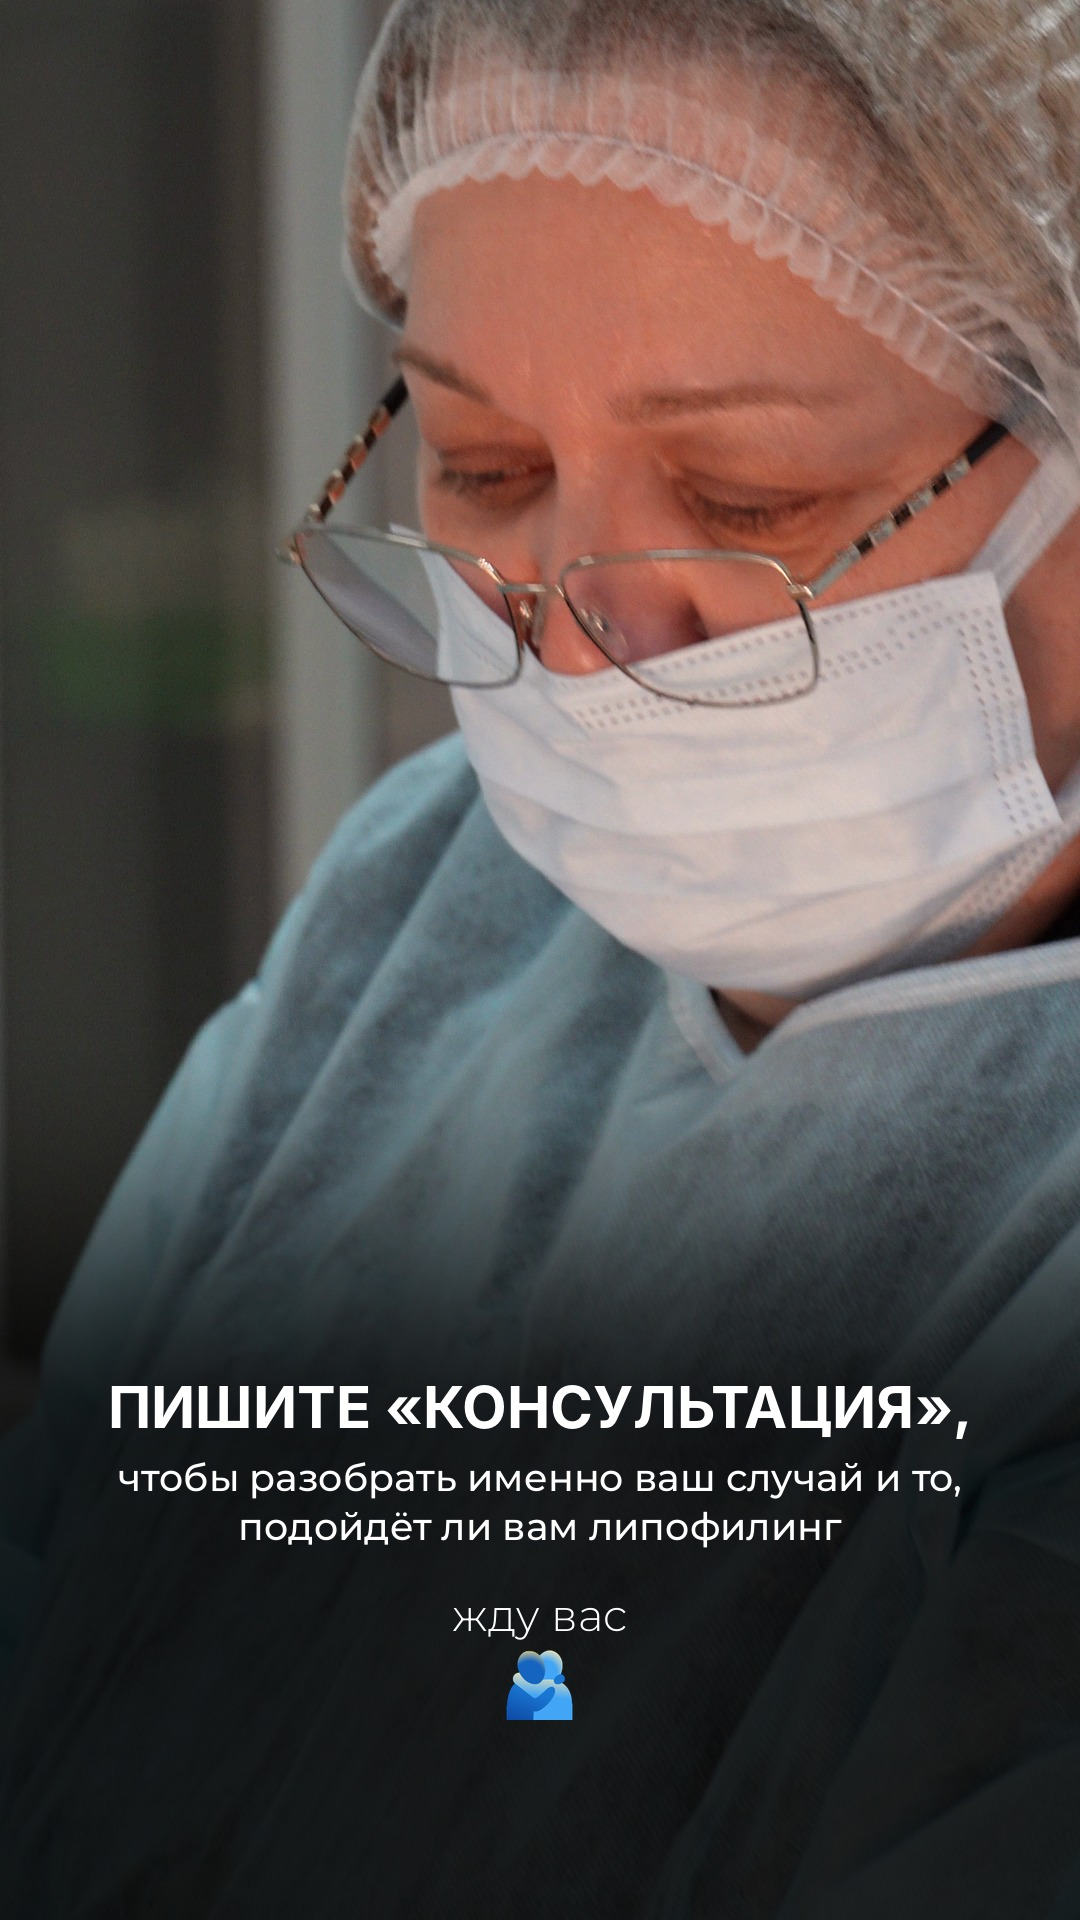
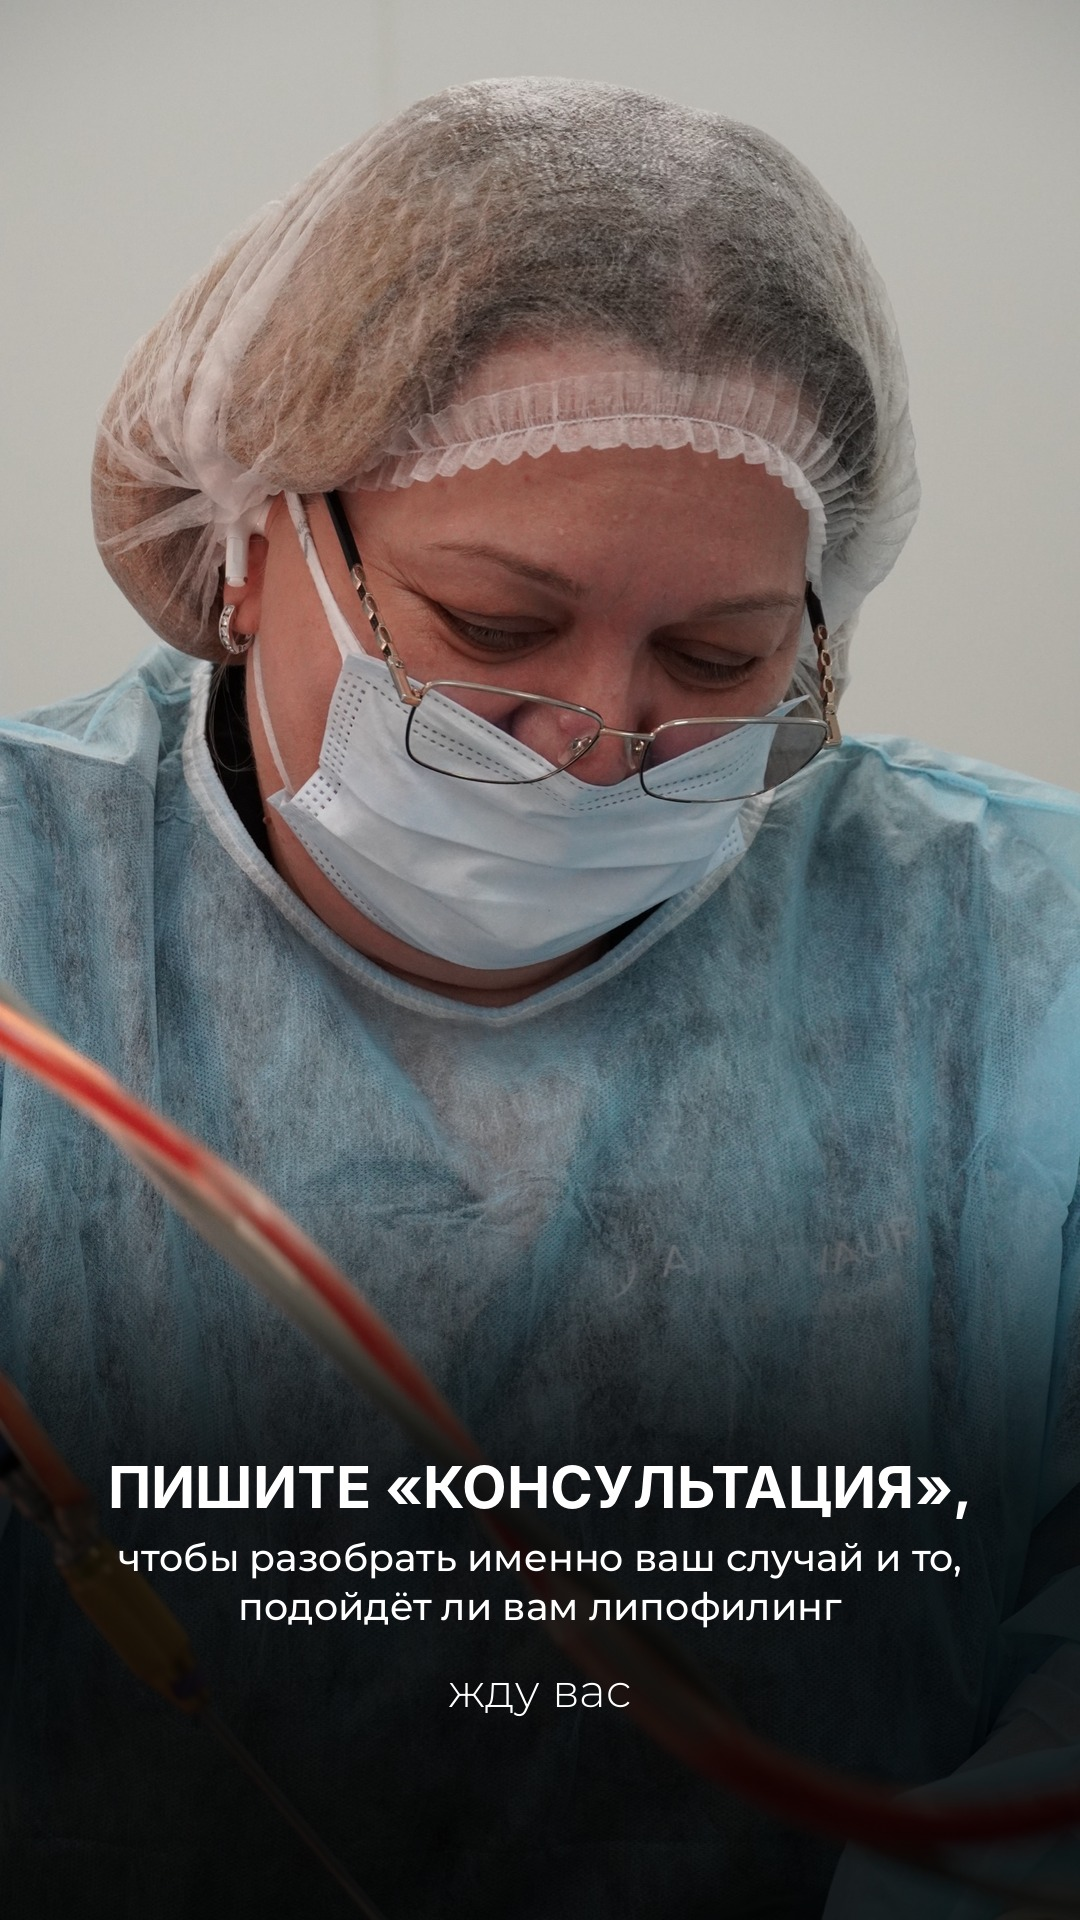
Lipofilling stories: no emoji, last story on the surgeon's OR photo
Claude-Session: https://claude.ai/code/session_01DoBoRz2HUe4yvMBz6dWv4L

diff --git a/tools/stories_lipofilling_fat.py b/tools/stories_lipofilling_fat.py
@@ -627,9 +627,7 @@ def emoji(ch, size):
 
 def s1():
     col = Column(0, align="left")
-    f = bold(62); tail = emoji("😍", 58)
-    im, pad = text_img(wrap("ПОСМОТРИТЕ, КАКОЙ ДРАГОЦЕННЫЙ ЖИР!", f, col.width - tail.width - 14), f, WHITE, 1.14, "left", col.width, tail=tail)
-    col._add(im, pad, 0, 18)
+    col.head("ПОСМОТРИТЕ, КАКОЙ ДРАГОЦЕННЫЙ ЖИР!", 0, size=62, gap=18)
     col.body("Не надо худеть, если хотите липофилинг", 0, size=40, wght=500, gap=0)
     col.to_bottom(1720)
     d = 29.0
@@ -660,22 +658,17 @@ def s3():
 
 
 def s4():
-    # cover video (3.8 s of 4K, slowed down to 7.7 s), no sound; CTA low on the gown, face free
-    p = subprocess.run(["ffmpeg", "-v", "error", "-i", os.path.join(SRC, "drive", "C0595.MP4"),
-                        "-vf", f"scale={W}:{H}:flags=lanczos,setpts=2.0*PTS,fps={FPS}", "-an", "-f", "rawvideo", "-pix_fmt", "rgb24", "-"],
-                       capture_output=True, check=True).stdout
-    frames = np.frombuffer(p, np.uint8).reshape(-1, H, W, 3)
+    # the surgeon in the OR (drive/surgeon_or_photo.jpg), photo story; CTA low on the gown, face free
+    img = ImageOps.fit(load_img("surgeon_or_photo.jpg"), (W, H), Image.LANCZOS, centering=(0.5, 0.0))
     col = Column(0, align="center")
     col.head("ПИШИТЕ «КОНСУЛЬТАЦИЯ»,", 0, size=58, gap=14)
-    col.body("чтобы разобрать именно ваш случай и то, подойдёт ли вам липофилинг", 0, size=38, wght=500, gap=36)
-    col.body("жду вас", 0, size=44, wght=300, gap=6)
-    em = emoji("🫂", 70); col.items.append(Sprite(em, (W - em.width) // 2, col.y, 0, dy=0)); col.y += em.height; col.bottom = col.y
+    col.body("чтобы разобрать именно ваш случай и то, подойдёт ли вам липофилинг", 0, size=38, wght=500, gap=30)
+    col.body("жду вас", 0, size=46, wght=300, gap=0)
     col.to_bottom(1720)
-    render(4, "konsultaciya", len(frames) / FPS, lambda i, t: frames[min(i, len(frames) - 1)], col.items,
-           shade=black_fade(col.items[0].y + 40, 380, 0.82))
+    render(4, "konsultaciya", 10.0, still_bg(img, z1=1.0), col.items, shade=black_fade(col.items[0].y + 40, 380, 0.82))
 
 
-PHOTO_ONLY = {2}
+PHOTO_ONLY = {2, 4}
 STORIES = {1: s1, 2: s2, 3: s3, 4: s4}
 for k, fn in STORIES.items():
     if not ONLY or k in ONLY:

diff --git a/stories_lipofilling_fat/README.md b/stories_lipofilling_fat/README.md
@@ -5,9 +5,11 @@
 
 | № | Файл | Что внутри | Звук |
 |---|------|-----------|------|
-| 1 | 01_dragocennyj_zhir.mp4 | хирург на липосакции (IMG_4752, 0–29 с), тело пациентки размыто; «ПОСМОТРИТЕ, КАКОЙ ДРАГОЦЕННЫЙ ЖИР! 😍 / Не надо худеть, если хотите липофилинг» | голос + субтитры по слову |
+| 1 | 01_dragocennyj_zhir.mp4 | хирург на липосакции (IMG_4752, 0–29 с), тело пациентки размыто; «ПОСМОТРИТЕ, КАКОЙ ДРАГОЦЕННЫЙ ЖИР! / Не надо худеть, если хотите липофилинг» | голос + субтитры по слову |
 | 2 | 02_yagodicy.jpg | «ИЛИ ЯГОДИЦ» + 4 коллажа ДО/ПОСЛЕ сеткой 2×2 | — (фото) |
 | 3 | 03_repost_rolika.mp4 | ролик IMG_4755 на весь экран, как репост | звук ролика |
-| 4 | 04_konsultaciya.mp4 | видео хирурга C0595 (замедлено), «ПИШИТЕ «КОНСУЛЬТАЦИЯ»… жду вас 🫂» | без звука |
+| 4 | 04_konsultaciya.jpg | фото хирурга в операционной, «ПИШИТЕ «КОНСУЛЬТАЦИЯ»… жду вас» | — (фото) |
 
 Оформление серии хирурга: чёрное затемнение снизу, белый текст, Inter Bold + Montserrat, субтитры Montserrat Light с маленькой буквы.
+
+Без смайликов.
